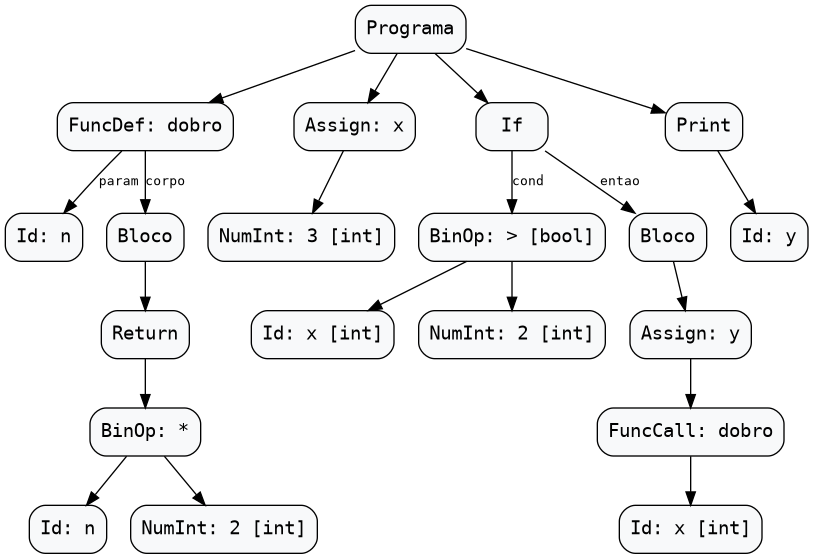
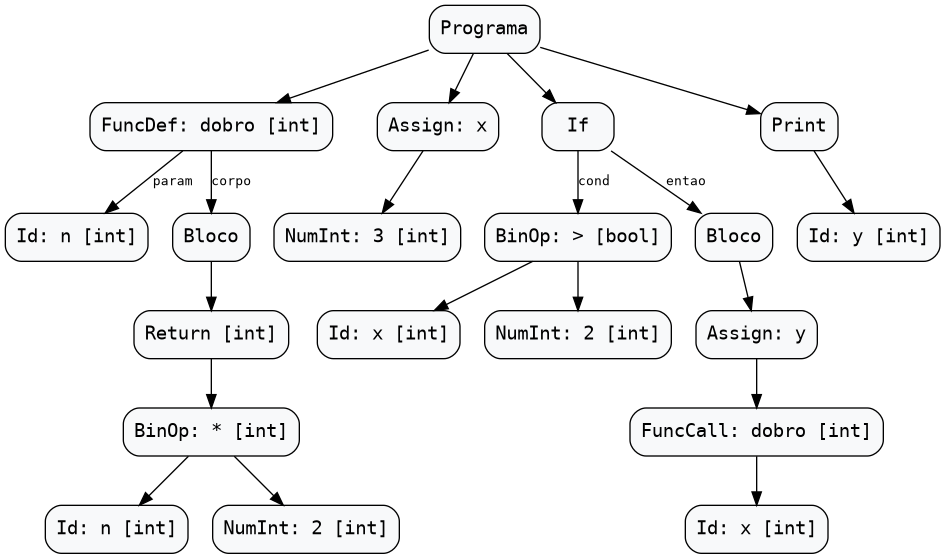
fix(semantica): bloqueia chamada antes do def no modulo e anota tipo_resolvido em def/return (closes #57)

diff --git a/compiladores-projeto/testes/tdd/teste_semantica.c b/compiladores-projeto/testes/tdd/teste_semantica.c
@@ -560,6 +560,56 @@ static int test_politica_reatribuicao_tipos(void) {
     return 1;
 }
 
+static int test_chamada_antes_def_e_tipo_resolvido_funcdef(void) {
+    printf("Running test_chamada_antes_def_e_tipo_resolvido_funcdef...\n");
+
+    // 1. Chamada no nível do módulo antes do def (C4) -> deve reportar 1 erro
+    TabelaSimbolos *tab1 = tabela_criar();
+    NoAST *call_g_antes = criar_no_assign("x", criar_no_funccall("g", NULL, 0, 1), 1);
+    NoAST **corpo_g = malloc(sizeof(NoAST *));
+    NoAST *ret_g = criar_no_return(criar_no_int(42, 3), 3);
+    corpo_g[0] = ret_g;
+    NoAST *def_g = criar_no_funcdef("g", NULL, 0, criar_no_bloco(corpo_g, 1), 2);
+
+    NoAST **cmds1 = malloc(2 * sizeof(NoAST *));
+    cmds1[0] = call_g_antes;
+    cmds1[1] = def_g;
+    NoAST *prog1 = criar_no_programa(cmds1, 2);
+
+    int erros1 = analisar_semantica(prog1, tab1);
+    ASSERT(erros1 == 1, "Calling a function at module level before its def must report 1 error");
+    ASSERT(def_g->tipo_resolvido == TIPO_INT, "NO_FUNCDEF tipo_resolvido should be TIPO_INT (C9)");
+    ASSERT(ret_g->tipo_resolvido == TIPO_INT, "NO_RETURN tipo_resolvido should be TIPO_INT (C9)");
+    liberar_ast(prog1);
+    tabela_liberar(tab1);
+
+    // 2. Chamada dentro de função antes do def (forward reference válida) + função void (C9)
+    TabelaSimbolos *tab2 = tabela_criar();
+    NoAST **corpo_f = malloc(sizeof(NoAST *));
+    corpo_f[0] = criar_no_return(criar_no_funccall("h", NULL, 0, 2), 2);
+    NoAST *def_f = criar_no_funcdef("f", NULL, 0, criar_no_bloco(corpo_f, 1), 1);
+
+    NoAST **corpo_h = malloc(sizeof(NoAST *));
+    NoAST *ret_h = criar_no_return(NULL, 4);
+    corpo_h[0] = ret_h;
+    NoAST *def_h = criar_no_funcdef("h", NULL, 0, criar_no_bloco(corpo_h, 1), 3);
+
+    NoAST **cmds2 = malloc(2 * sizeof(NoAST *));
+    cmds2[0] = def_f;
+    cmds2[1] = def_h;
+    NoAST *prog2 = criar_no_programa(cmds2, 2);
+
+    int erros2 = analisar_semantica(prog2, tab2);
+    ASSERT(erros2 == 0, "Forward reference inside function body must remain valid");
+    ASSERT(def_h->tipo_resolvido == TIPO_VOID, "Void NO_FUNCDEF tipo_resolvido should be TIPO_VOID");
+    ASSERT(ret_h->tipo_resolvido == TIPO_VOID, "Empty NO_RETURN tipo_resolvido should be TIPO_VOID");
+    liberar_ast(prog2);
+    tabela_liberar(tab2);
+
+    printf("  PASSED\n");
+    return 1;
+}
+
 int main(void) {
     printf("=======================================\n");
     printf(" TESTES DA ANÁLISE SEMÂNTICA\n");
@@ -577,7 +627,8 @@ int main(void) {
         test_redefinicao_funcao_e_conflito(),
         test_politica_reatribuicao_tipos(),
         test_inferencia_parametros_e_void(),
-        test_linhas_erros_estruturas_compostas()
+        test_linhas_erros_estruturas_compostas(),
+        test_chamada_antes_def_e_tipo_resolvido_funcdef()
     };
 
     int n_tests = sizeof(test_results) / sizeof(test_results[0]);

diff --git a/compiladores-projeto/src/ast.c b/compiladores-projeto/src/ast.c
@@ -310,7 +310,9 @@ void imprimir_ast(NoAST *raiz, int nivel) {
             imprimir_ast(raiz->bloco_if, nivel + 2);
             break;
         case NO_FUNCDEF:
-            printf("%s: %s\n", nome_tipo_no(raiz->tipo), raiz->nome);
+            printf("%s: %s", nome_tipo_no(raiz->tipo), raiz->nome);
+            imprimir_tipo_resolvido(raiz->tipo_resolvido);
+            printf("\n");
             if (raiz->num_argumentos > 0) {
                 indentar(nivel + 1); printf("Params:\n");
                 for (int i = 0; i < raiz->num_argumentos; i++)
@@ -320,7 +322,9 @@ void imprimir_ast(NoAST *raiz, int nivel) {
             imprimir_ast(raiz->bloco_if, nivel + 2);
             break;
         case NO_RETURN:
-            printf("%s\n", nome_tipo_no(raiz->tipo));
+            printf("%s", nome_tipo_no(raiz->tipo));
+            imprimir_tipo_resolvido(raiz->tipo_resolvido);
+            printf("\n");
             if (raiz->esquerda)
                 imprimir_ast(raiz->esquerda, nivel + 1);
             break;
@@ -399,13 +403,17 @@ static int ast_para_dot_rec(NoAST *raiz, FILE *saida, int *contador) {
             break;
         case NO_ASSIGN:
         case NO_FOR:
-        case NO_FUNCDEF:
             fprintf(saida, "%s: ", nome_tipo_no(raiz->tipo));
             escapar_string_dot(raiz->nome, saida);
             break;
+        case NO_FUNCDEF:
         case NO_FUNCCALL:
             fprintf(saida, "%s: ", nome_tipo_no(raiz->tipo));
             escapar_string_dot(raiz->nome, saida);
+            imprimir_tipo_dot(raiz->tipo_resolvido, saida);
+            break;
+        case NO_RETURN:
+            fprintf(saida, "%s", nome_tipo_no(raiz->tipo));
             imprimir_tipo_dot(raiz->tipo_resolvido, saida);
             break;
         default:

diff --git a/compiladores-projeto/src/semantica.c b/compiladores-projeto/src/semantica.c
@@ -136,6 +136,9 @@ TipoDado inferir_tipo(NoAST *raiz, TabelaSimbolos *tabela, int *erros) {
             break;
         case NO_FUNCCALL: {
             Simbolo *sim = tabela_buscar(tabela, raiz->nome);
+            if (!tabela->dentro_de_funcao && sim != NULL && sim->pre_registrada) {
+                    sim = NULL;
+                }
             bool chamada_valida = sim != NULL && sim->e_funcao && raiz->num_argumentos == sim->num_parametros;
 
             // Os argumentos são sempre verificados, mesmo quando a chamada é inválida
@@ -363,8 +366,8 @@ int analisar_semantica(NoAST *raiz, TabelaSimbolos *tabela) {
         
         if (atualizar_simbolo && s != NULL) {
             s->tipo =tabela->tipo_retorno_atual;
+            raiz->tipo_resolvido = tabela->tipo_retorno_atual;
         }
-        
         tabela->dentro_de_funcao = escopo_func_anterior;
         tabela->tipo_retorno_atual = tipo_ret_anterior;
         
@@ -381,7 +384,7 @@ int analisar_semantica(NoAST *raiz, TabelaSimbolos *tabela) {
         if (raiz->esquerda) {
             tipo_ret = inferir_tipo(raiz->esquerda, tabela, &erros);
         }
-        
+        raiz->tipo_resolvido = tipo_ret;
         if (tabela->dentro_de_funcao) {
             if (tabela->tipo_retorno_atual == TIPO_DESCONHECIDO || tabela->tipo_retorno_atual == TIPO_VOID) {
                 tabela->tipo_retorno_atual = tipo_ret;

diff --git a/compiladores-projeto/docs/Inconsistencias.md b/compiladores-projeto/docs/Inconsistencias.md
@@ -8,11 +8,11 @@ Levantamento das divergências entre a documentação do projeto e o comportamen
 
 | Categoria | Itens |
 |---|---|
-| [1. Comportamento documentado que não acontece](#1-comportamento-documentado-que-nao-acontece) | 10 |
-| [2. Documentação desatualizada](#2-documentacao-desatualizada) | 13 |
+| [1. Comportamento documentado que não acontece](#1-comportamento-documentado-que-nao-acontece) | 8 |
+| [2. Documentação desatualizada](#2-documentacao-desatualizada) | 11 |
 | [3. Links e navegação](#3-links-e-navegacao) | 3 |
 | [4. Documentos que se contradizem](#4-documentos-que-se-contradizem) | 2 |
-| [5. Já corrigido](#5-ja-corrigido) | 3 |
+| [5. Já corrigido](#5-ja-corrigido) | 7 |
 
 ---
 
@@ -38,12 +38,6 @@ São os casos mais graves: ou o documento está errado, ou o código tem um bug.
 - **Na prática:** `range()` e `range(1, 2, 3, 4)` também são aceitos, sem erro.
 - **Correção sugerida:** validar a quantidade de argumentos do `range` na semântica (novo código SEM).
 
-### C4 — Chamada antes do `def` no nível do módulo
-- **Onde:** `docs/Semantica.md:69`
-- **O doc diz:** chamar uma função antes do seu `def` no nível do módulo "continua sendo erro", como o `NameError` do Python.
-- **Na prática:** `x = g()` seguido de `def g(): return 1` é aceito, porque `pre_registrar_funcoes` registra todas as funções do programa antes de analisar qualquer comando.
-- **Correção sugerida:** decidir o comportamento. Se for erro, a chamada no nível do módulo precisa checar se o `def` já foi visitado (a flag `pre_registrada` já indica isso).
-
 ### C5 — Listas fazem parte da linguagem
 - **Onde:** `docs/Especificacao_Linguagem.md:13`, `docs/Parser.md:105`, `CODING_STANDARDS.md`
 - **O doc diz:** listas como `[]` e `[1, 2, 3]` são tipos suportados, traduzidos para `List<T>`.
@@ -67,12 +61,6 @@ São os casos mais graves: ou o documento está errado, ou o código tem um bug.
 - **O doc diz:** "Erro semântico na linha 3: Número errado de argumentos."
 - **Na prática:** o exemplo tem uma linha em branco antes da chamada, então o erro sai na linha 4.
 - **Correção sugerida:** mudar a saída esperada para a linha 4.
-
-### C9 — `tipo_resolvido` de `def` e `return`
-- **Onde:** `docs/AST.md:35-36`
-- **O doc diz:** na matriz de campos, `NO_FUNCDEF` e `NO_RETURN` guardam o tipo de retorno em `tipo_resolvido`.
-- **Na prática:** a semântica nunca preenche esse campo nesses nós; no `--ast` eles aparecem sem anotação. O tipo de retorno existe só na tabela de símbolos.
-- **Correção sugerida:** preencher o campo na semântica (útil para a geração de funções em C#, Issue #31) ou trocar a célula da matriz por "—".
 
 ### C10 — Teste documentado que nunca roda
 - **Onde:** `docs/Semantica.md:130`, `testes/rodar_testes.sh`
@@ -121,18 +109,6 @@ O código evoluiu depois que o texto foi escrito. Nenhum destes casos muda o com
 - **O doc diz:** `linha_token` é repassada a todos os `criar_no_*`; o `YY_USER_ACTION` só atualiza `linha_token`.
 - **Na prática:** desde a Issue #46 o parser usa `@N.first_line`, e o `YY_USER_ACTION` também preenche `yylloc`.
 - **Correção sugerida:** descrever o uso de *locations* do Bison nos dois documentos.
-
-### D7 — Imagens da AST sem os tipos atuais
-- **Onde:** `docs/img/ast_def_chamada.png`, `docs/img/ast_vida_programa.png`
-- **O doc diz:** as imagens mostram `Id: n`, `BinOp: *` e `FuncCall: dobro` sem anotação de tipo.
-- **Na prática:** desde a Issue #52 esses nós saem como `[int]`. O texto do `VidaDeUmPrograma.md` já foi atualizado; as imagens não.
-- **Correção sugerida:** regenerar com `./compilador --dot` e `dot -Tpng` (requer Graphviz).
-
-### D8 — Struct, API e exemplo da tabela de símbolos
-- **Onde:** `docs/TabelaSimbolos.md:27-35`, `63`, `100-108` e `159-161`
-- **O doc diz:** `Simbolo` sem o campo `pre_registrada`; `escopo_atual` "incrementado em blocos e funções"; API sem `tabela_buscar_escopo_atual`; no exemplo, `x` é registrado antes de `calcular`.
-- **Na prática:** o campo e a função existem; só funções abrem escopo (Issue #45); `calcular` entra primeiro, no pré-registro (Issue #49).
-- **Correção sugerida:** atualizar a struct, a tabela da API, a frase sobre escopo e a ordem do exemplo.
 
 ### D9 — Testes unitários e resultado da suíte semântica
 - **Onde:** `docs/Testes_Semanticos.md`
@@ -221,3 +197,19 @@ Precisam de uma decisão do grupo antes de mexer no texto.
 ### R3 — Escopo de variáveis em blocos no C# gerado
 - **Estava:** a página do gerador dizia que variáveis de bloco deixam de existir no `}`, contrariando a Issue #45.
 - **Ficou:** segue a Issue #45: variáveis atribuídas dentro de blocos serão declaradas no início do método, com `default(...)` (ver [Geração de Código C#](CodegenCSharp.md)).
+
+### R4 — Chamada antes do `def` no nível do módulo (C4 / Issue #57)
+- **Estava:** `x = g()` no nível global antes de `def g(): return 1` era aceito por causa do pré-registro em duas passadas.
+- **Ficou:** quando `!tabela->dentro_de_funcao` e `sim->pre_registrada`, `NO_FUNCCALL` reporta `"Chamada a função não declarada"` (mantendo *forward references* válidas dentro do corpo de funções).
+
+### R5 — `tipo_resolvido` em `NO_FUNCDEF` e `NO_RETURN` (C9 / Issue #57)
+- **Estava:** o tipo de retorno só era salvo na tabela de símbolos; `NO_FUNCDEF` e `NO_RETURN` ficavam com `TIPO_DESCONHECIDO` na AST.
+- **Ficou:** `semantica.c` preenche `raiz->tipo_resolvido` tanto em `NO_FUNCDEF` quanto em `NO_RETURN`, e `ast.c` exibe o tipo em `--ast` e `--dot`.
+
+### R6 — Imagens da AST atualizadas com os tipos inferidos (D7 / Issue #57)
+- **Estava:** `docs/img/ast_def_chamada.png` e `docs/img/ast_vida_programa.png` não exibiam os tipos inferidos nos parâmetros, retorno e chamadas de função.
+- **Ficou:** imagens regeneradas a partir da saída atual de `./compilador --dot`.
+
+### R7 — Struct, API e exemplo em `docs/TabelaSimbolos.md` (D8 / Issue #57)
+- **Estava:** faltavam `pre_registrada` na struct `Simbolo` e `tabela_buscar_escopo_atual` na tabela da API; o texto dizia que blocos abrem escopo e o exemplo registrava `x` antes do pré-registro de `calcular`.
+- **Ficou:** documentação de `TabelaSimbolos.md` alinhada com a implementação atual.

diff --git a/compiladores-projeto/docs/TabelaSimbolos.md b/compiladores-projeto/docs/TabelaSimbolos.md
@@ -30,6 +30,7 @@ typedef struct {
     int escopo;
     int linha_declaracao;
     bool e_funcao;
+    bool pre_registrada;
     int num_parametros;
     TipoDado* tipos_parametros;
 } Simbolo;
@@ -40,6 +41,7 @@ typedef struct {
 * **`escopo`:** Nível de aninhamento em que o identificador foi declarado (0 = global).
 * **`linha_declaracao`:** Linha do arquivo-fonte onde o identificador foi registrado (para mensagens de erro).
 * **`e_funcao`:** Booleano que indica se o símbolo representa uma função (`true`) ou variável (`false`).
+* **`pre_registrada`:** Booleano que indica se a função foi inserida na 1ª passada (`pre_registrar_funcoes`) e seu `def` ainda não foi visitado na 2ª passada.
 * **`num_parametros`:** Quantidade de parâmetros formais esperados pela função.
 * **`tipos_parametros`:** Vetor dinâmico com os tipos esperados para cada parâmetro formal.
 
@@ -60,7 +62,7 @@ typedef struct {
 
 * **`array_simbolos`:** Array dinâmico contíguo contendo todos os símbolos ativos.
 * **`tamanho` / `capacidade`:** Controle de capacidade com redimensionamento automático (`realloc`).
-* **`escopo_atual`:** Profundidade do bloco atual (incrementado em blocos e funções, decrementado ao sair).
+* **`escopo_atual`:** Profundidade do escopo atual (0 no nível global; incrementado ao entrar no corpo de uma função `def` e decrementado ao sair).
 * **`dentro_de_funcao`:** Flag que rastreia se a análise está dentro do corpo de uma função (usada para proibir `return` fora de funções).
 * **`tipo_retorno_atual`:** Tipo de retorno inferido da função em análise, assegurando consistência entre múltiplos `return`.
 
@@ -101,7 +103,8 @@ Ao sair de um bloco (`tabela_sair_escopo`), todos os símbolos pertencentes ao e
 |---|---|
 | `tabela_criar()` | Aloca e inicializa uma nova tabela com capacidade inicial de 10 símbolos e `escopo_atual = 0`. |
 | `tabela_inserir(tab, nome, tipo, linha)` | Insere um novo identificador no escopo corrente, duplicando o nome com `strdup` e redimensionando a capacidade se necessário. |
-| `tabela_buscar(tab, nome)` | Busca linear reversa pelo identificador. Retorna o ponteiro `Simbolo*` mais recente ou `NULL`. |
+| `tabela_buscar(tab, nome)` | Busca linear reversa pelo identificador em todos os escopos ativos. Retorna o ponteiro `Simbolo*` mais recente ou `NULL`. |
+| `tabela_buscar_escopo_atual(tab, nome)` | Busca linear reversa restrita ao `escopo_atual`. Retorna o `Simbolo*` se já existir no escopo corrente ou `NULL`. |
 | `tabela_entrar_escopo(tab)` | Incrementa `escopo_atual` em 1. |
 | `tabela_sair_escopo(tab)` | Remove todos os símbolos do escopo corrente, desaloca suas memórias e decrementa `escopo_atual`. |
 | `tabela_imprimir(tab)` | Imprime o conteúdo da tabela e o escopo corrente com tipos legíveis via `tipo_para_string` (ativado pela flag `--tabela`). |
@@ -157,8 +160,8 @@ total = calcular(x)
 Durante a análise semântica:
 
 1. **Escopo 0 (Global):**
-   - Registrado `x` (`TIPO_INT`, escopo 0).
-   - Registrado `calcular` (`e_funcao = true`, 1 parâmetro `val`, escopo 0).
+   - Na 1ª passada (`pre_registrar_funcoes`), registrado `calcular` (`e_funcao = true`, `pre_registrada = true`, 1 parâmetro `val`, escopo 0).
+   - Na 2ª passada, registrado `x` (`TIPO_INT`, escopo 0) e confirmado o `def` de `calcular` (`pre_registrada = false`).
 2. **Escopo 1 (Corpo da função `calcular`):**
    - Entra no escopo 1 (`tabela_entrar_escopo`).
    - Parâmetro `val` inserido no escopo 1.

diff --git a/compiladores-projeto/docs/VidaDeUmPrograma.md b/compiladores-projeto/docs/VidaDeUmPrograma.md
@@ -280,12 +280,12 @@ Obtemos a árvore indentada com os tipos resolvidos anotados entre colchetes (`[
 
 ```text
 Programa
-  FuncDef: dobro
+  FuncDef: dobro [int]
     Params:
       Id: n [int]
     Corpo:
       Bloco
-        Return
+        Return [int]
           BinOp: * [int]
             Id: n [int]
             NumInt: 2 [int]
@@ -325,11 +325,11 @@ digraph AST {
     node [shape=box, style="rounded,filled", fillcolor="#f8f9fa", fontname="monospace"];
     edge [fontname="monospace", fontsize=10];
     n0 [label="Programa"];
-    n1 [label="FuncDef: dobro"];
+    n1 [label="FuncDef: dobro [int]"];
     n2 [label="Id: n [int]"];
     n1 -> n2 [label="param"];
     n3 [label="Bloco"];
-    n4 [label="Return"];
+    n4 [label="Return [int]"];
     n5 [label="BinOp: * [int]"];
     n6 [label="Id: n [int]"];
     n7 [label="NumInt: 2 [int]"];
